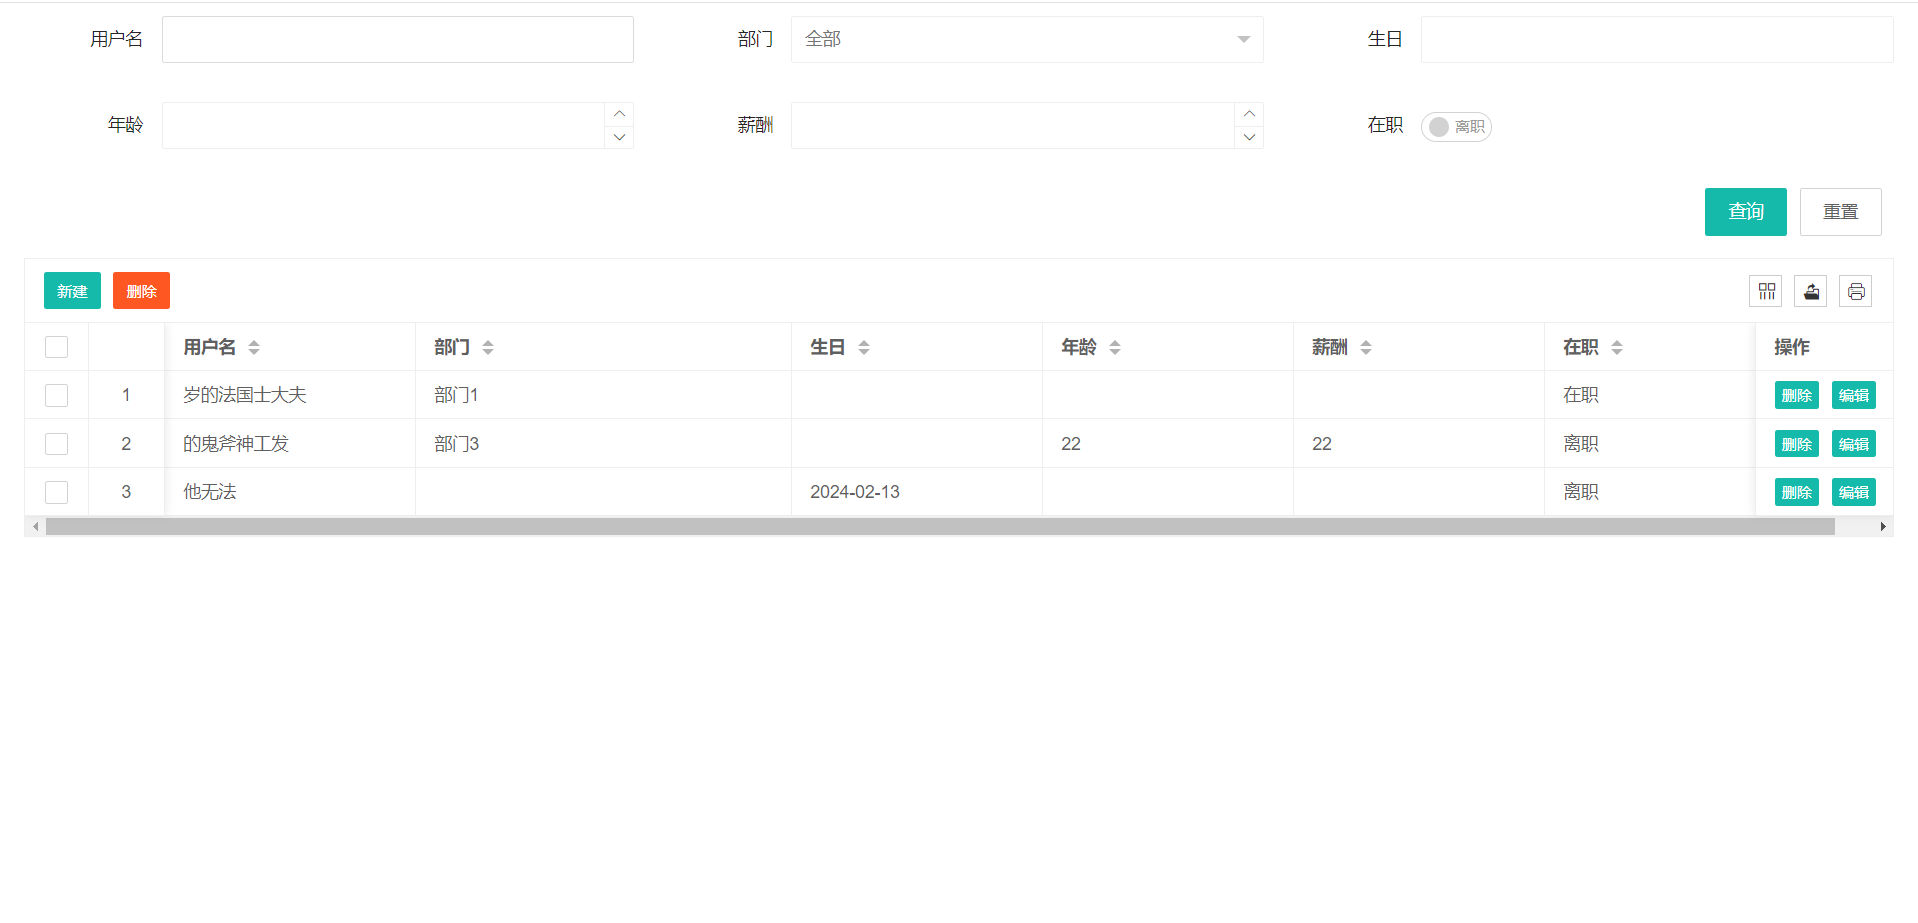
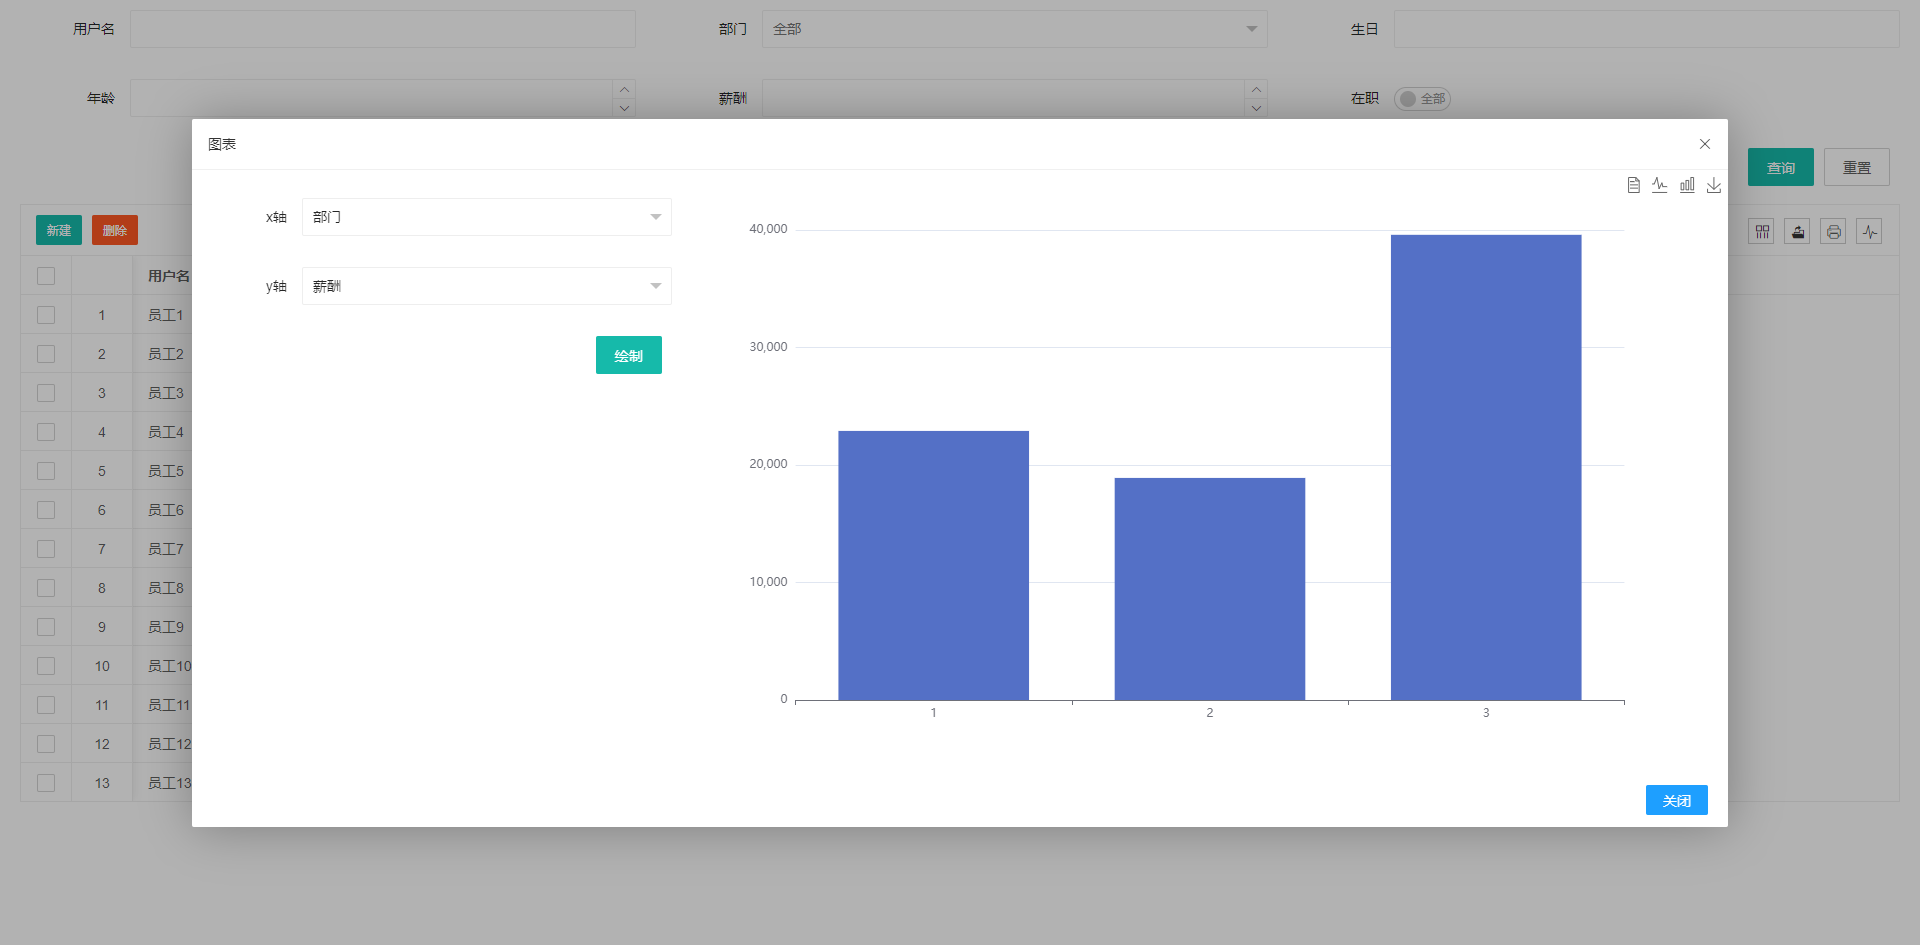
快速绘制图表

diff --git a/README.md b/README.md
@@ -43,7 +43,7 @@
 <dependency>
     <groupId>com.gitee.wb04307201</groupId>
     <artifactId>sql-util</artifactId>
-    <version>1.3.5.1</version>
+    <version>1.3.6</version>
 </dependency>
 ```
 
@@ -265,5 +265,8 @@ public class InitEntityWeb implements ApplicationRunner {
 ```
 
 ###### 通过id访问页面
-http://ip:port/entity/view/1111  
+http://ip:port/entity/view/1111
+单表维护  
+![img.png](img.png)
+绘制图表  
 ![img_1.png](img_1.png)
